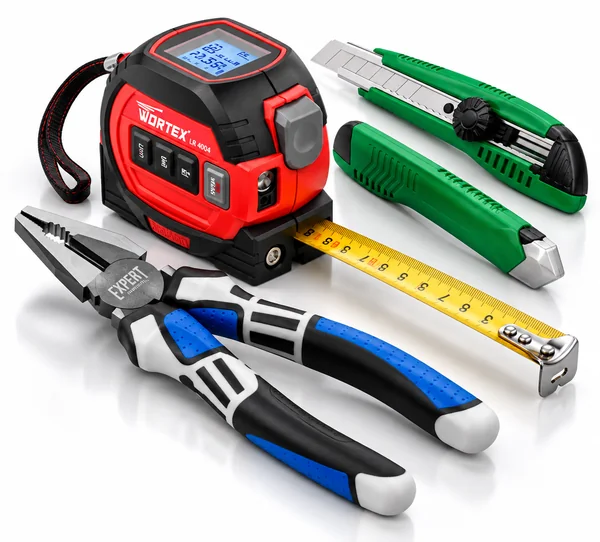
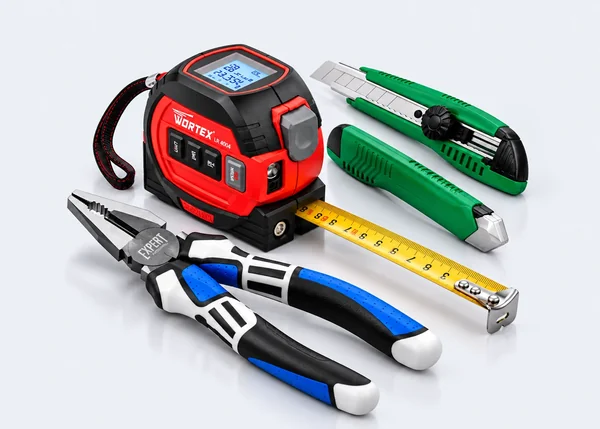
Снимки разделов — набор клиента из одиннадцати кадров
Кадры сняты одним светом на светлом фоне, обработка прежняя: обрезка полей
и 600px webp (scripts/make-section-photos.py). Разложены так: оконные ленты
на монтаж окон, баллоны на пену, бутиловые рулоны на кровельные, профили на
EPDM, скотчи на скотчи, крепёж на крепёж, хомуты на вентиляцию, инструмент
на инструмент, перчатки с наушниками на СИЗ, диски и свёрла на оснастку, а
сборный кадр лент — на «Ленты EUROBAND» в меню.

Прежние снимки остались у герметиков, клея и лент ПЭС: новых кадров для них
клиент не присылал.

diff --git a/src/lib/sectionPhotos.tsx b/src/lib/sectionPhotos.tsx
@@ -8,10 +8,14 @@ import chemistry from '../assets/section-photos/kley-himiya-smazki.webp';
 import pesTapes from '../assets/section-photos/uplotnitelnye-lenty-pes-samokleyaschiesy.webp';
 import epdm from '../assets/section-photos/uplotnitel-rezinovyy-d-p-e.webp';
 import fasteners from '../assets/section-photos/krepezh.webp';
-import tapes from '../assets/section-photos/alyuminievye-armirovannye-lenty.webp';
+import stickyTapes from '../assets/section-photos/alyuminievye-armirovannye-lenty.webp';
 import hvac from '../assets/section-photos/ventilyaciya.webp';
 import tools from '../assets/section-photos/instrument-oborudovanie.webp';
 import roofing from '../assets/section-photos/krovelnye-uplotniteli-kleykie-lenty.webp';
+import foam from '../assets/section-photos/pena-montazhnaya.webp';
+import safety from '../assets/section-photos/siz-rashodnye-materialy.webp';
+import drillBits from '../assets/section-photos/osnastka-k-elektroinstrumentu.webp';
+import ownTapes from '../assets/section-photos/tapes.webp';
 
 /*
  * Знак раздела — снимок товара из него, а не пиктограмма.
@@ -39,20 +43,27 @@ const PICKED: Record<string, string> = {
 /*
  * Снимки разделов от клиента: сняты одним светом и показывают раздел целиком,
  * а не одну позицию из него. Где такой снимок есть, он идёт вперёд товарного.
+ *
+ * Правкой от 05.10 клиент прислал набор из одиннадцати кадров — по одному
+ * почти на каждый раздел. Прежние остались только у герметиков, клея и лент
+ * ПЭС: новых кадров для них не было.
  */
 const CLIENT: Record<string, string> = {
   'materialy-dlya-okon': windowMaterials,
+  'pena-montazhnaya': foam,
   germetiki: sealants,
   'kley-himiya-smazki': chemistry,
   'uplotnitelnye-lenty-pes-samokleyaschiesy': pesTapes,
+  'krovelnye-uplotniteli-kleykie-lenty': roofing,
   'uplotnitel-rezinovyy-d-p-e': epdm,
   krepezh: fasteners,
-  'alyuminievye-armirovannye-lenty': tapes,
+  'alyuminievye-armirovannye-lenty': stickyTapes,
   ventilyaciya: hvac,
   'instrument-oborudovanie': tools,
-  // Кадр с бутиловыми и алюминиевыми рулонами клиент правкой от 02.10
-  // перенёс сюда с материалов для монтажа окон — там вернулся прежний.
-  'krovelnye-uplotniteli-kleykie-lenty': roofing
+  'siz-rashodnye-materialy': safety,
+  'osnastka-k-elektroinstrumentu': drillBits,
+  // Сборная подборка лент собственного производства в мега-меню
+  tapes: ownTapes
 };
 
 const CATEGORY = new Map<string, string>();
